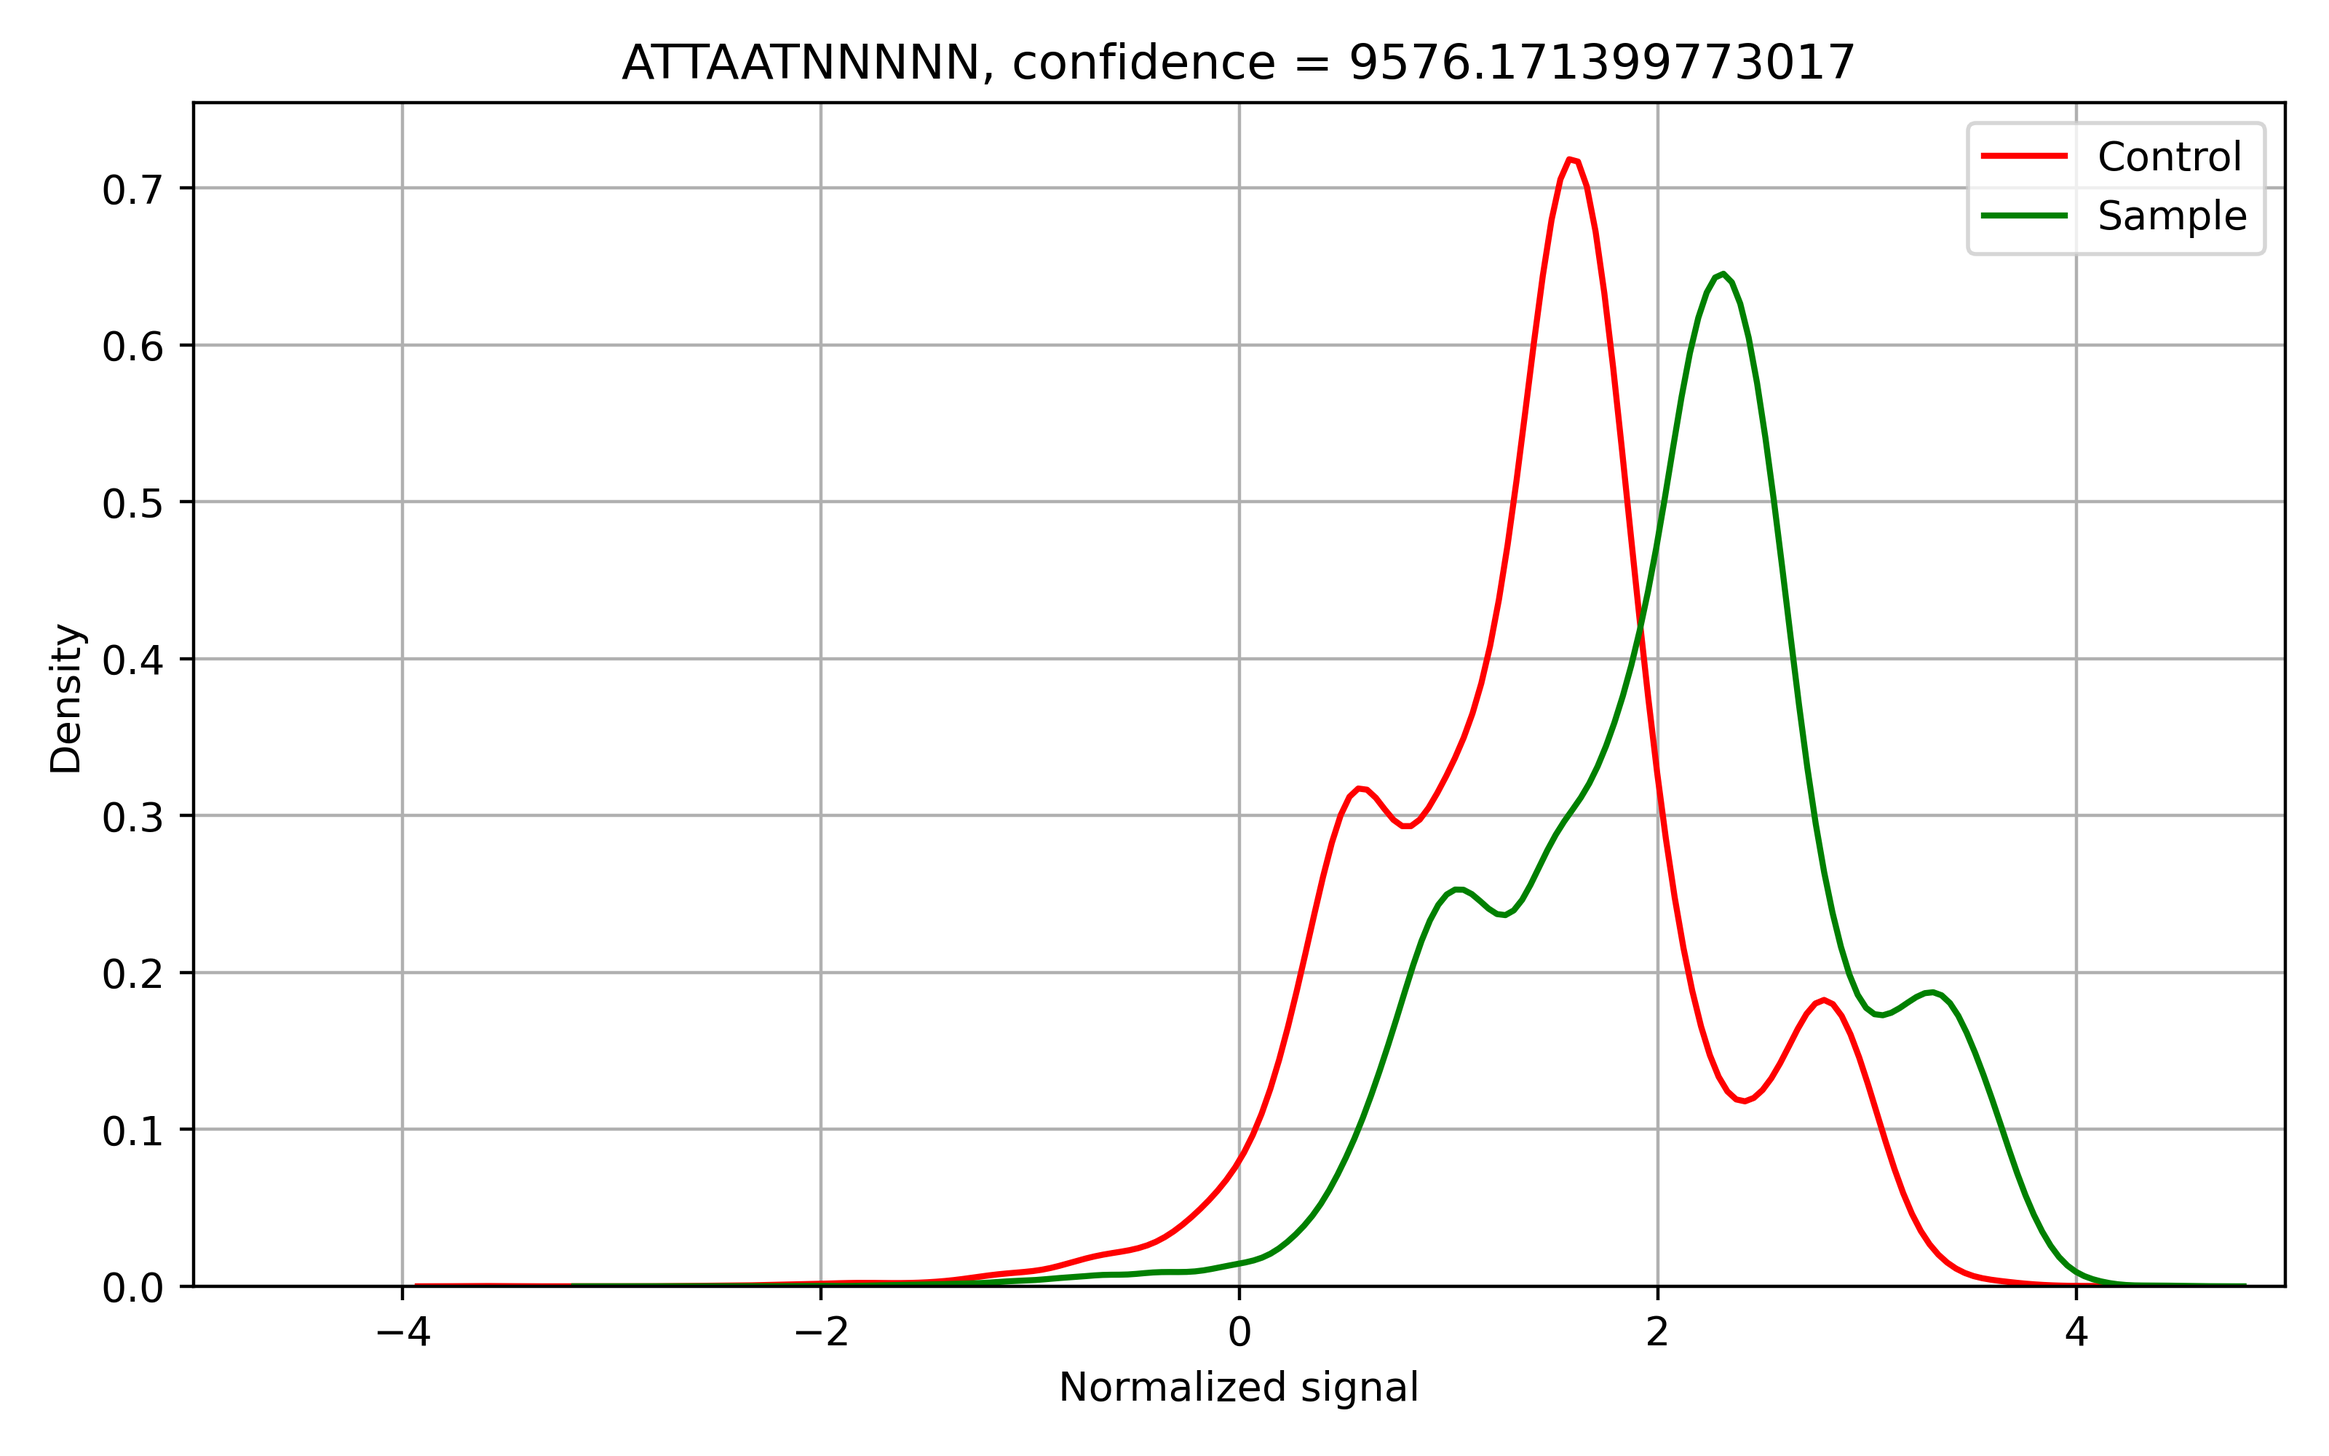
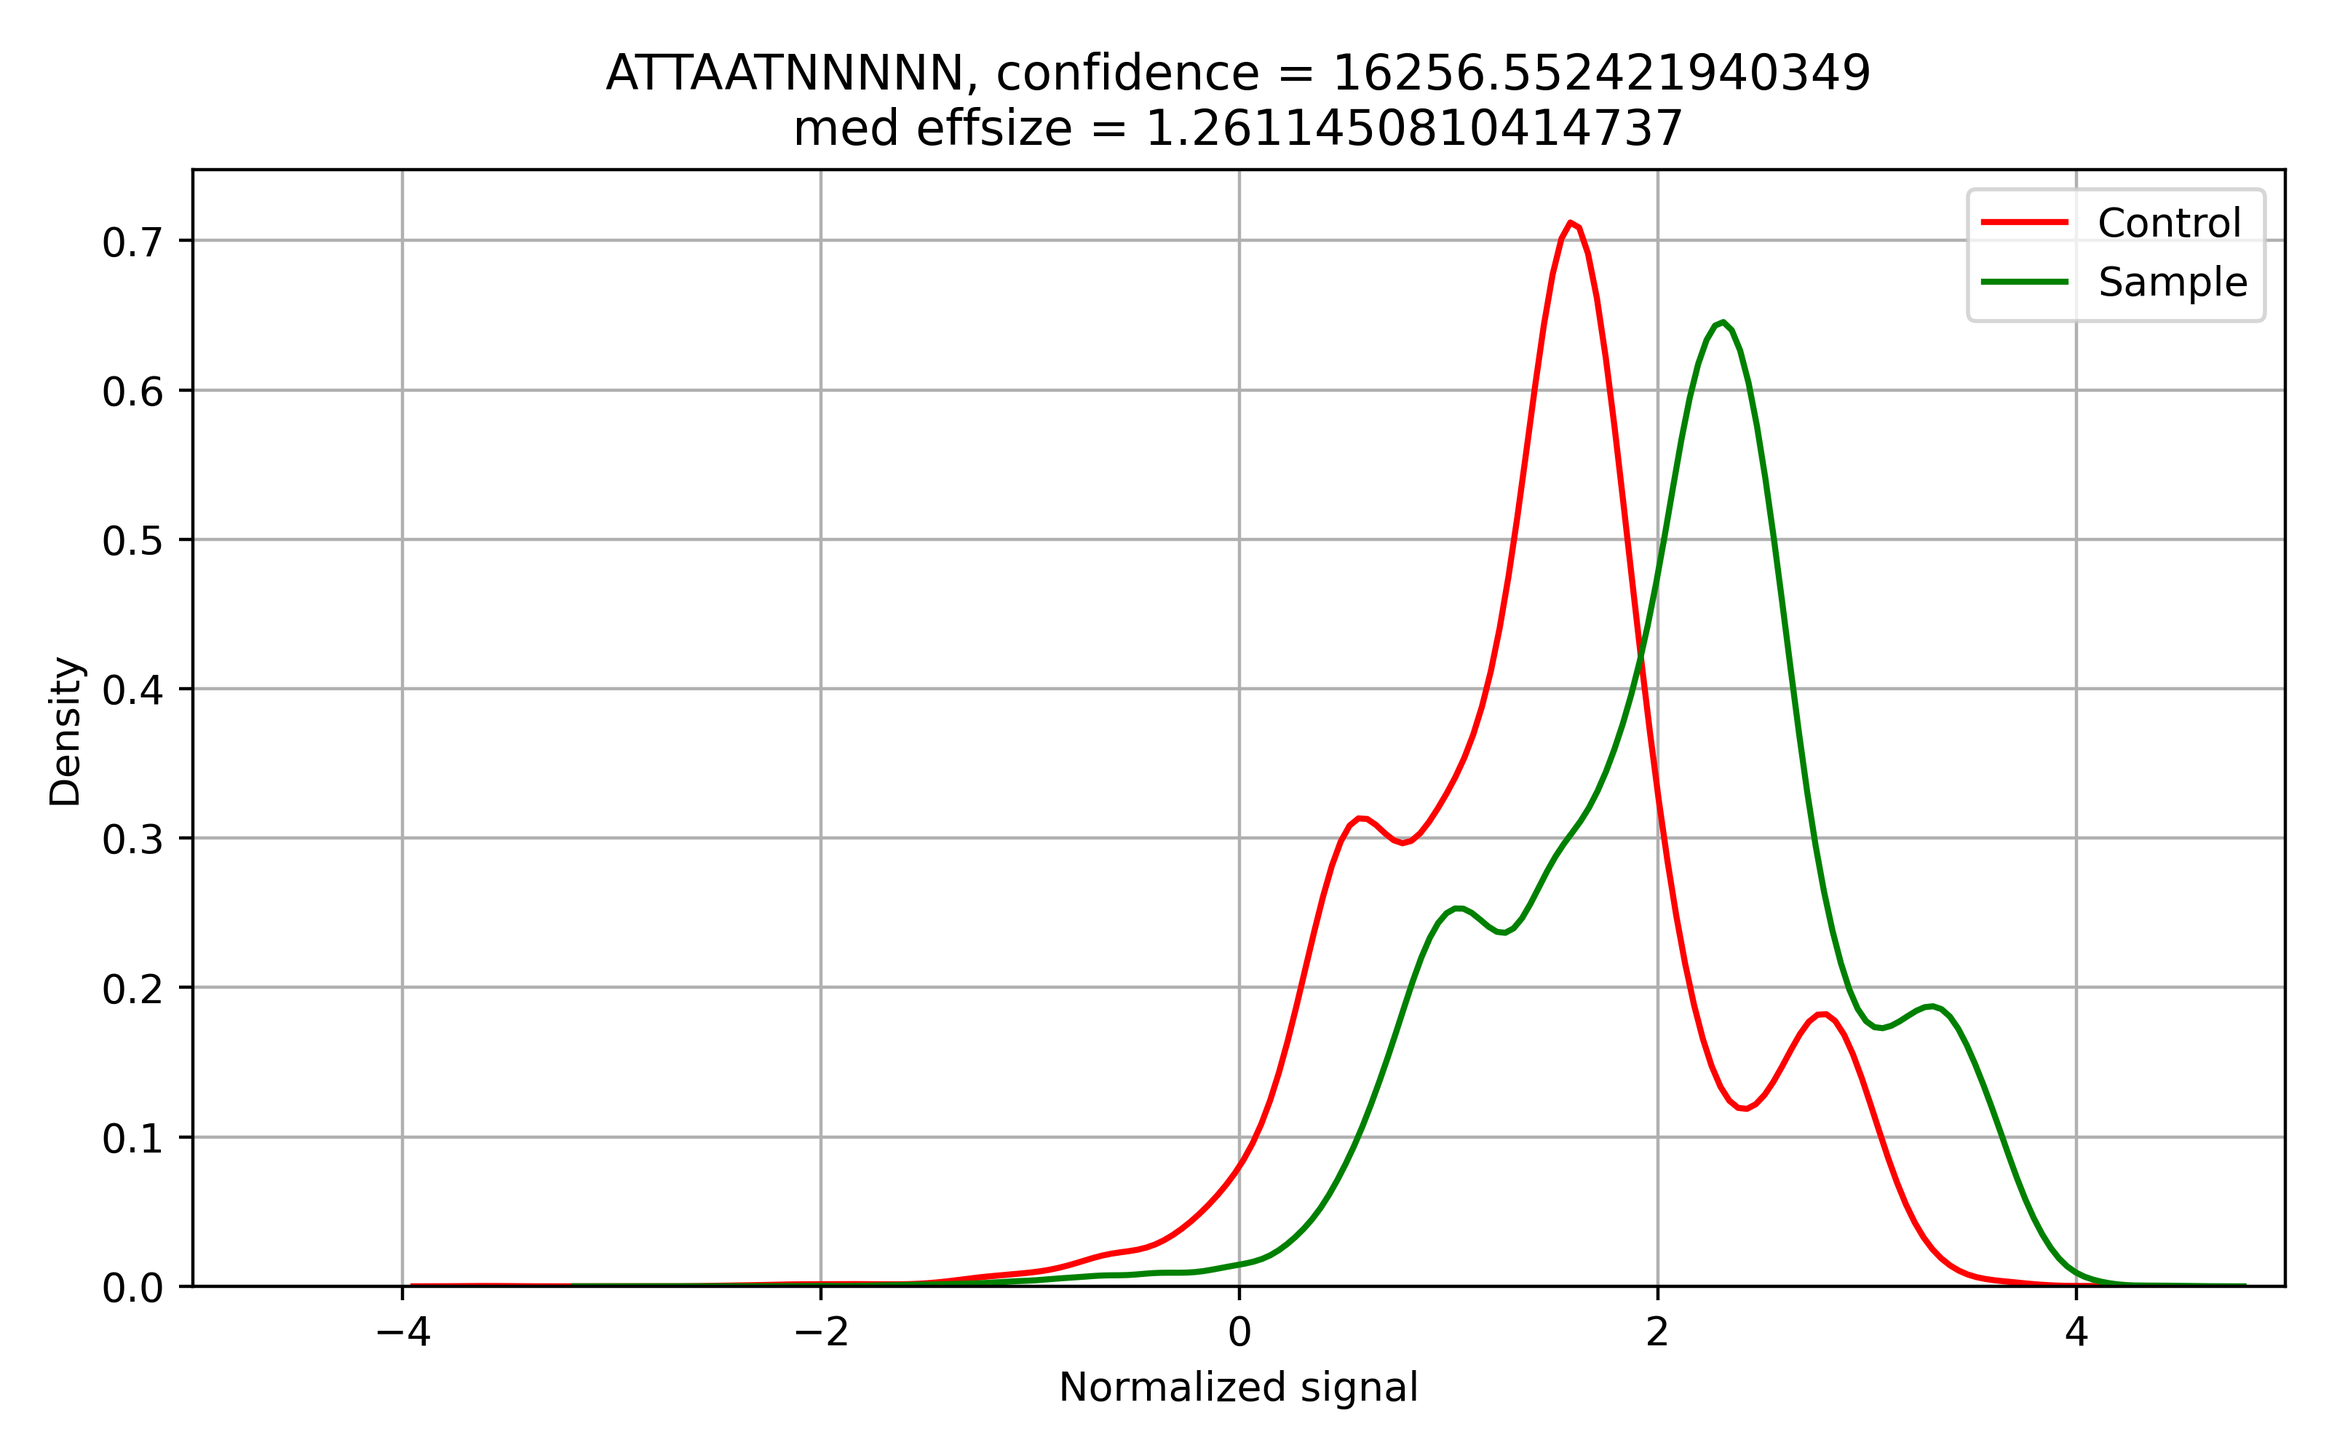
new snapper version

diff --git a/docs/source/usercases.rst b/docs/source/usercases.rst
@@ -84,66 +84,69 @@ in the console output::
         ...
 
 
-
 When the algorithm extracts the desired number of motifs (in our case it equals 30) or reaches the limit of confidence level (in our case we used the default value equals 1000), 
-it stops, and all the extracted motifs are written to the ``final_motifs_{}.fasta`` file. You can see the file that we obtained for *H. pylori* A45 below.
+it stops. The results includes the generated list of potential methylation sites, where for each motif a corresponding confidence level and signal shift size are calculated. 
+The table below shows the results returned by Snapper for *H. pylori* A45.
 
-.. code:: console
++-------+-----------+---------+
+| MOTIF | conflevel | effsize |
++=======+===========+=========+
+|NCATGN | 32951.2   | 1.59    |
++-------+-----------+---------+
+|NGCGCN |32109.6    | 1.11    |
++-------+-----------+---------+
+|NTGCAN | 19535.3   |   1.00  |
++-------+-----------+---------+
+|NGAACN | 21296.2   |0.79     |
++-------+-----------+---------+
+|NGGCCN |22838.8    | 1.42    |
++-------+-----------+---------+
+|NGATCN | 24323.8   | 0.46    |
++-------+-----------+---------+
+|NCCAGN | 22631.8   |0.72     |
++-------+-----------+---------+
+|NCCATCN|29952.0    |1.54     |
++-------+-----------+---------+
+|NGAHTCN|25034.2    |0.72     |
++-------+-----------+---------+
+|NGGGGAN|14548.9    |0.58     |
++-------+-----------+---------+
+|ATTAATN|16256.6    |1.26     |
++-------+-----------+---------+
+|TCNNGAN|16322.6    |0.63     |
++-------+-----------+---------+
+|NTCNGAN|18074.7    | 0.63    |
++-------+-----------+---------+
+|NGANTC | 11994.4   |0.37     |
++-------+-----------+---------+
+|NGGAGAN|11128.4    | 0.60    |
++-------+-----------+---------+
+|GTNNACN|9591.0     | 0.92    |
++-------+-----------+---------+
+|NTCGAN |4558.2     |0.62     |
++-------+-----------+---------+
+|CNNGAN | 3066.5    | 0.27    |
++-------+-----------+---------+
 
-    >MOTIF_1 conflevel=32929.810579835554
-    NCATGN
-    >MOTIF_2 conflevel=27150.172723009397
-    NGCGCN
-    >MOTIF_3 conflevel=20926.64815874996
-    NTGCAN
-    >MOTIF_4 conflevel=16871.401882032533
-    NGAACN
-    >MOTIF_5 conflevel=15530.496289015375
-    NGGCCN
-    >MOTIF_6 conflevel=13946.47111908573
-    NGATCN
-    >MOTIF_7 conflevel=14357.456320775802
-    NCCAGN
-    >MOTIF_8 conflevel=13564.339781476972
-    TGCAAN
-    >MOTIF_9 conflevel=13897.42649049243
-    NCCATCN
-    >MOTIF_10 conflevel=13516.073689850868
-    NGANTCN
-    >MOTIF_11 conflevel=11834.003594825455
-    TCNNGAN
-    >MOTIF_12 conflevel=10879.027264923401
-    ATTAATN
-    >MOTIF_13 conflevel=11125.493295859182
-    NGGGGAN
-    >MOTIF_14 conflevel=10321.761783741122
-    NTCNGAN
-    >MOTIF_15 conflevel=6055.761315478015
-    NGGAGAN
-    >MOTIF_16 conflevel=5151.606515517744
-    GTNNACN
-    >MOTIF_17 conflevel=3797.0776895320637
-    NTCGAN
+Generally, motifs with confidence level higher than 5000 might be used without additional verification regardless effect size. Thus, the NGATCN motif (actually just GTAC) has a moderate 
+signal shift (effsize < 0.5) but extremely high confidence level that indicates about motif correctness. In contrast, the NTCGAN motif has quite low confidence level but high effect size greater than 0.5, 
+that seems satisfactory for motif inference. The last extracted motif CNNGAN has the lowest confidence and effect size. To ensure the motif correctness we should consider corresponding signal distribution plots.
 
 
-The authors recommend to check the motif correctness mannually in cases when its confidence level lower than 3000. 
-In this particular case, all the extracted motifs had a sufficient confidence level, so, they can be used as is.
+.. image:: images/A45_CNNGANNNNNN.png
 
-
-In addition to text output, Snapper generates signal distribution plots for each extracted motif. These plots can be found in ``plots_[forward, reverse]_[contigname]`` folders. Let's observe some signal distributions:
+We can see that signal distributions are quite similar and contain a few common modes. Let's compare this plot with actual *H. pylori* methylation sites:
 
 .. image:: images/A45_NNNCATGNNNN.png
 
-.. image:: images/A45_NNNTGCANNNN.png
+.. image:: images/A45_NNNNNGAACNN.png
 
 .. image:: images/A45_ATTAATNNNNN.png
 
+Indeed, the effect size should be noticeable for actual individual methylation sites, so we can conclude that CNNGA is not an individual motif. Actually, it is just a submotif for the TCNNGA motif.
 
-Here, we can see few types of signal distribution. The first CATG motif distribution has a clear unimodal shape and visible signal shift, 
-while the second motif TGCA has two modes. Note, that shift size can differ for different modes. The last plot demonstrates longer ATTAAT methylation site. 
-Here, despite a high effect size, the confidence level is quite low. The reason is a formal length of the motif since longer motifs are generally rarer than shorter ones, 
-so, the statistics values tend to be lower too. Generally, the authors recommend to be cautios with motifs that have confidince level lower than 3000 regardless of the motif length.
-
+We should mention that Snapper is intentionally does not merge close motifs such as GGGGA and GGAGA to prevent occasional motif collisions, so the user should to merge these variants by themselves.
+Combining the Snapper results, we can infer the following list of methylation sites: ATTAAT, GTNNAC, GGRGA, CCATC, CATG, CCAG, GCGC, GANTC, GATC, GGCC, GAAC, TGCA, TCGA, TCNGA, TCNNGA. 
 
 *Helicobacter pylori* A45 native vs mutant analysis
 ---------------------------------------------------
@@ -157,81 +160,113 @@ The running command::
 
     (snapper) $ snapper -sample_fast5dir A45_multi -control_fast5dir A45_newmut_multi -reference A45.fna -outdir Results_A45_newmut 
 
-Unexpectedily, the resulting list of motifs includes three motifs::
+Unexpectedily, the resulting list of motifs includes two motifs:
 
-    >MOTIF_1 conflevel=69232.936179688
-    NCCAGN
-    >MOTIF_2 conflevel=1833.4410392715497
-    NTCTTN
-    >MOTIF_4 conflevel=1226.8986302620608
-    NCTTCH
++-------+-----------+---------+
+| MOTIF | conflevel | effsize |
++=======+===========+=========+
+|NCAGGN | 83270.4   | 0.70    |
++-------+-----------+---------+
+|NTCTN  | 3174.7    | 0.32    |
++-------+-----------+---------+
 
 According to these results, the considered MTase is most likely specific to CCAG site, but there are two motifs with confidence level lower than 3000 were extracted. 
 Since the algorithm implemented in Snapper is very high-sensitive, these results seem to be false-positive. Let's consider corresponding signal distributions in order to confirm our inference:
 
 .. image:: images/bc13_NNNCCAGNNNN.png
     
-.. image:: images/bc13_NNNNTCTTNNN.png
-    
-.. image:: images/bc13_NNNCTTCHNNN.png
+.. image:: images/bc13_NNNNTCTNNNN.png
 
-Indeed, the CCAG motif has a visible signal shift, while the others have a very small difference between native and contol samples. 
-Moreover, these two motifs cannot be merged into one “ancestor” motif. Combining it with small effect size and low confidince level, we can conclude that these motifs are false-positive.
+Indeed, the CCAG motif has a visible signal shift, so it is most likely to be the metylation site for the considered MTase. At the same time, TCT has a very small but noticeable difference between native and contol samples in both distribution modes.
+Probably, TCT is part of Type I R-M system recognition site but it requires additional experimental confirmation.
 
 
 When motifs with low confidence level are not false-positive?
 -------------------------------------------------------------
 
-Let's consider other case opposite to the previous. Here, we will analyze another *H. pylori* strain J99. Snapper returned the following motifs::
+Let's consider other case opposite to the previous. Here, we will analyze another *H. pylori* strain J99. Snapper returned the following motifs:
 
-    ...
-    >MOTIF_5 conflevel=13377.13156417874
-    NCCGGN
-    ...
-    >MOTIF_13 conflevel=5502.44744861762
-    NGGNCTAN
-    >MOTIF_14 conflevel=5544.476242630171
-    NGGWCAAN
-    ...
-    >MOTIF_16 conflevel=4384.303493212003
-    NCGACGN
-    >MOTIF_17 conflevel=4242.870880053313
-    NCGTCGN
-    ...
-    >MOTIF_20 conflevel=2770.1124650379484
-    GGACGAN
-    >MOTIF_21 conflevel=2656.2205060160477
-    NGTCACN
-    >MOTIF_22 conflevel=1734.1045411693126
-    NGTGACN
-    >MOTIF_23 conflevel=1718.0747564787976
-    GTCNATN
-    >MOTIF_25 conflevel=1551.2644823054413
-    CGTCGTN
-    >MOTIF_26 conflevel=1433.3165247859145
-    NTGCCG
+ 
++-------+-----------+---------+
+| MOTIF | conflevel | effsize |
++=======+===========+=========+
+|NCATGN | 30725.1   | 1.30    |
++-------+-----------+---------+
+|NGCGCN |31789.6    | 0.85    |
++-------+-----------+---------+
+|NGATCN | 28787.6   |   0.36  |
++-------+-----------+---------+
+|NGANTCN| 18370.6   |0.4      |
++-------+-----------+---------+
+|NCCGGN |16504.4    | 0.98    |
++-------+-----------+---------+
+|NGCCTAN| 18232.3   | 1.32    |
++-------+-----------+---------+
+|NGACAY | 12090.2   |1.12     |
++-------+-----------+---------+
+|NGTCATN|12902.7    |1.33     |
++-------+-----------+---------+
+|NACGTN |10060.5    |1.07     |
++-------+-----------+---------+
+|NCCNNGG|8993.5     |0.74     |
++-------+-----------+---------+
+|NGAGGN |8984.4     |0.28     |
++-------+-----------+---------+
+|ATTAATN|10246.2    |0.96     |
++-------+-----------+---------+
+|GGWCWAN|10589.9    | 0.55    |
++-------+-----------+---------+
+|GGWCNAN| 9547.2    |0.46     |
++-------+-----------+---------+
+|NGTACN |7495.2     | 1.07    |
++-------+-----------+---------+
+|NCGACGN|6267.5     | 1.02    |
++-------+-----------+---------+
+|NCGTCGN|5088.5     |0.51     |
++-------+-----------+---------+
+|NTCGAN | 4788.8    | 0.44    |
++-------+-----------+---------+
+|CCTAAN | 4838.8    | 0.16    |
++-------+-----------+---------+
+|GGGCTAN| 4508.5    | 0.33    |
++-------+-----------+---------+
+|NGTCACN| 3847.4    | 1.11    |
++-------+-----------+---------+
+|NTNCCG | 2365.1    | 0.15    |
++-------+-----------+---------+
+|NGTGACN| 2307.4    | 0.67    |
++-------+-----------+---------+
+|GTCNATN| 2309.9    | 0.19    |
++-------+-----------+---------+
+|GACNAN | 2326.3    | 0.13    |
++-------+-----------+---------+
+|NCCNGG | 1977.4    | 0.25    |
++-------+-----------+---------+
+|GGGCNAN| 1261.5    | 0.17    |
++-------+-----------+---------+
 
+This case is quite more complicated copared with the A45 strain since there is more potential motifs with low metric values which should 
+be filtered manually. Fortunately, combining confidence level with observed effect size we can succesfully infer individual motifs.
+Firstly, we should remove from the list all motifs that have confidence level lower than 3000 and effect size lower than 0.25 (NTNCCG, GTCNATN, GACNAN, NCCNGG, GGGCNAN).
+As well as in the previous case, all motifs with confidence level greater than 5000 can be used as is regardless the effect size. NGTCACN and NGTGACN motifs has quite low 
+confidence level but a solid signal shift and form an ancestor motif GTSAC.
 
-Firstly, we can remove from this list GTCNATN because it did not show a visible signal shift on the plot. 
-Secondly, CGTCGTN should be removed since it is just a submotif of NCGWCGN that had a confidence score greater than 3000 (NCGACGN and NCGTCGN motifs in the list above). 
-Now, let's consider signal distributions for other motifs:
+NTCGAN and GGGTCAN are more controversial. They both have a moderate signal shift and confidence level, so we should manually observe corresponding signal destributions to
+verify their presence.
 
-.. image:: images/plots_forward_contig_1_pilon_pilon_pilon/GGACGANNNNN.png
-
-.. image:: images/plots_forward_contig_1_pilon_pilon_pilon/NGTCACNNNNN.png
+.. image:: images/J99_NNTCGANNNNN.png
     
-.. image:: images/plots_forward_contig_1_pilon_pilon_pilon/NNNGTGACNNN.png
+.. image:: images/J99_NNGGGCTANNN.png
 
-.. image:: images/plots_forward_contig_1_pilon_pilon_pilon/NNNNNNTGCCG.png
+Control and sample signal distributions for GGGCTA have a common mode that indicates that it is not an individual motif while TCGA has a visible signal shift, so we
+can conlude that TCGA is an individual motif.
 
-Firstly, we can see that both GTGAC and GTCAC motifs have a clear signal shift and can be merged into one GTSAC motif. 
-So, combining these two facts, despite the low value of confidence, we can conclude that GTSAC methylation motif is presented in this strain.
+Main points
+-----------
 
-The NTGCCG motif seems partially shifted but the two distributions have one identical mode. Usually, it means that the complete motif sequence has not been extracted 
-or the motif context has not been successfully adjusted due to 11-mers length limitation. Actually, in this particular case, this motif is just cropped form of CCGG motif. 
-We should note, that CCGG was extracted individually with confidence greater than 10000.
+Here, we summurize some motif inference recommendations: 
 
-The GGACGAN motif looks the most controversial. The change in the distribution shape signalizes about the presence of a methylated base in this context, 
-but we cannot be sure about motif correctness or motif completeness. The only additional thing we know is that this motif is 
-quite similar to GGNCTA and GGWCAA that had a satisfactory confidence level. Maybe they are formed by one common ancestor motif, 
-but formally, such cases can be resolved only experimentally.
+1. Generally, if the confidence level of a considered motif is greater than 5000, it is most probably an individual motif regardless signal shif size.
+2. Generally, if the signal shift (effsize) of a considered motif is greater than 0.5, it is most probably an individual motif.
+3. If some motif has a confidence level lower than 5000 and a signal shift lower than 0.5, it should be manually verified via corresponding signal distributions plots observation. If sample and control distributions have a common mode (one ore more), it usually indicates that motif sequence is incomplete.
+4. If some motif has a confidence level lower than 3000 and a signal shift lower than 0.25, it is most likely not to be an individual motif.  
